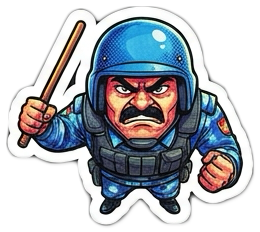
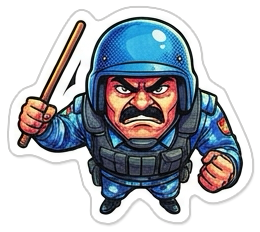
feat: remove security sprite drop-shadow; add second visual variant per kind

diff --git a/src/creatures/SecurityCreature.ts b/src/creatures/SecurityCreature.ts
@@ -8,18 +8,32 @@ export type SecurityKind = "police" | "raf";
  * whatever size the user has resized the avatar to. */
 export const SECURITY_WIDTH = 55;
 
-// height/width computed from each source PNG's native pixel dimensions
-// (police.png 298x245, raf.png 260x232), so the sprite keeps its real
-// proportions at the fixed display width above.
-const SPRITE_ASPECT: Record<SecurityKind, number> = {
-  police: 245 / 298,
-  raf: 232 / 260,
+export interface SecuritySprite {
+  src: string;
+  aspect: number; // native height / width
+}
+
+// Each kind now has 2 visual variants — a unit's SecurityKind ("police"/"raf")
+// stays the gameplay-relevant category (see pickPulseKinds in RaidController.ts,
+// which guarantees one of each per pulse); which specific sprite variant renders
+// is a separate, purely cosmetic random pick.
+const SPRITE_VARIANTS: Record<SecurityKind, SecuritySprite[]> = {
+  police: [
+    { src: "/creatures/security/police.png", aspect: 245 / 298 },
+    { src: "/creatures/security/police-2.png", aspect: 250 / 254 },
+  ],
+  raf: [
+    { src: "/creatures/security/raf.png", aspect: 232 / 260 },
+    { src: "/creatures/security/raf2.png", aspect: 245 / 267 },
+  ],
 };
 
-const SPRITE_SRC: Record<SecurityKind, string> = {
-  police: "/creatures/security/police.png",
-  raf: "/creatures/security/raf.png",
-};
+/** Picks a random visual variant for the given kind. `rand` is injectable for
+ * deterministic tests, matching the pattern used by pickSecurityKind. */
+export function pickSecuritySprite(kind: SecurityKind, rand: () => number = Math.random): SecuritySprite {
+  const variants = SPRITE_VARIANTS[kind];
+  return variants[Math.floor(rand() * variants.length)]!;
+}
 
 /** Equal to the avatar/sticker's z-index (100, see StickerOverlay.STICKER_Z_INDEX). Security
  * units are appended into the avatar's own DOM parent (see RaidController's `avatarLayer`
@@ -37,8 +51,8 @@ export const SECURITY_ENTER_MS = 280;
 /** Duration a unit spends shrinking (repel radius easing to 0) before RaidController.tick() removes it (ms). */
 export const SECURITY_SHRINK_MS = 250;
 
-export function securityHeightFor(kind: SecurityKind): number {
-  return Math.round(SECURITY_WIDTH * SPRITE_ASPECT[kind]);
+export function securityHeightFor(sprite: SecuritySprite): number {
+  return Math.round(SECURITY_WIDTH * sprite.aspect);
 }
 
 export function pickSecurityKind(rand: () => number = Math.random): SecurityKind {
@@ -160,11 +174,12 @@ export function createSecurityUnit(
   y: number,
   kind: SecurityKind = pickSecurityKind(),
 ): SecurityUnitState {
+  const sprite = pickSecuritySprite(kind);
   const w = SECURITY_WIDTH;
-  const h = securityHeightFor(kind);
+  const h = securityHeightFor(sprite);
 
   const el = document.createElement("img");
-  el.src = SPRITE_SRC[kind];
+  el.src = sprite.src;
   el.alt = kind === "police" ? "Police" : "RAF";
   el.style.cssText = [
     "position:absolute",
@@ -174,7 +189,6 @@ export function createSecurityUnit(
     `height:${h}px`,
     "pointer-events:none",
     `z-index:${SECURITY_Z_INDEX}`,
-    "filter:drop-shadow(0 1px 1px rgba(0,0,0,0.12))",
   ].join(";");
   container.appendChild(el);
 

diff --git a/tests/unit/securityCreature.test.ts b/tests/unit/securityCreature.test.ts
@@ -15,6 +15,7 @@ import {
   SECURITY_SHRINK_MS,
   securityHeightFor,
   pickSecurityKind,
+  pickSecuritySprite,
   createSecurityUnit,
   removeSecurityUnit,
   computeSecurityEnterProgress,
@@ -41,12 +42,30 @@ describe('SecurityCreature', () => {
   });
 
   describe('securityHeightFor', () => {
-    it('scales police height proportionally from its native aspect ratio', () => {
-      expect(securityHeightFor('police')).toBe(45);
+    it('scales height proportionally from a sprite\'s own aspect ratio', () => {
+      expect(securityHeightFor({ src: '', aspect: 245 / 298 })).toBe(45);
     });
 
-    it('scales raf height proportionally from its native aspect ratio', () => {
-      expect(securityHeightFor('raf')).toBe(49);
+    it('scales height proportionally for a different aspect ratio', () => {
+      expect(securityHeightFor({ src: '', aspect: 232 / 260 })).toBe(49);
+    });
+  });
+
+  describe('pickSecuritySprite', () => {
+    it('returns a police-family sprite for kind "police"', () => {
+      const sprite = pickSecuritySprite('police', () => 0);
+      expect(sprite.src).toContain('police');
+    });
+
+    it('returns a raf-family sprite for kind "raf"', () => {
+      const sprite = pickSecuritySprite('raf', () => 0);
+      expect(sprite.src).toContain('raf');
+    });
+
+    it('picks different variants for different rand() outputs', () => {
+      const first = pickSecuritySprite('police', () => 0);
+      const second = pickSecuritySprite('police', () => 0.99);
+      expect(first.src).not.toBe(second.src);
     });
   });
 
@@ -56,7 +75,7 @@ describe('SecurityCreature', () => {
 
       expect(container.children.length).toBe(1);
       expect(unit.el.tagName).toBe('IMG');
-      expect(unit.el.src).toContain('/creatures/security/police.png');
+      expect(unit.el.src).toMatch(/\/creatures\/security\/police(-2)?\.png$/);
       expect(unit.w).toBe(SECURITY_WIDTH);
       expect(unit.x).toBe(100);
       expect(unit.y).toBe(200);
@@ -87,11 +106,6 @@ describe('SecurityCreature', () => {
       const unit = createSecurityUnit(container, 0, 0, 'police');
       expect(unit.el.style.zIndex).toBe(String(SECURITY_Z_INDEX));
       expect(SECURITY_Z_INDEX).toBe(100);
-    });
-
-    it('uses a flat, subtle drop-shadow', () => {
-      const unit = createSecurityUnit(container, 0, 0, 'police');
-      expect(unit.el.style.filter).toContain('rgba(0,0,0,0.12)');
     });
 
     it('spawns at scale 0 / opacity 0, mid-entrance', () => {
